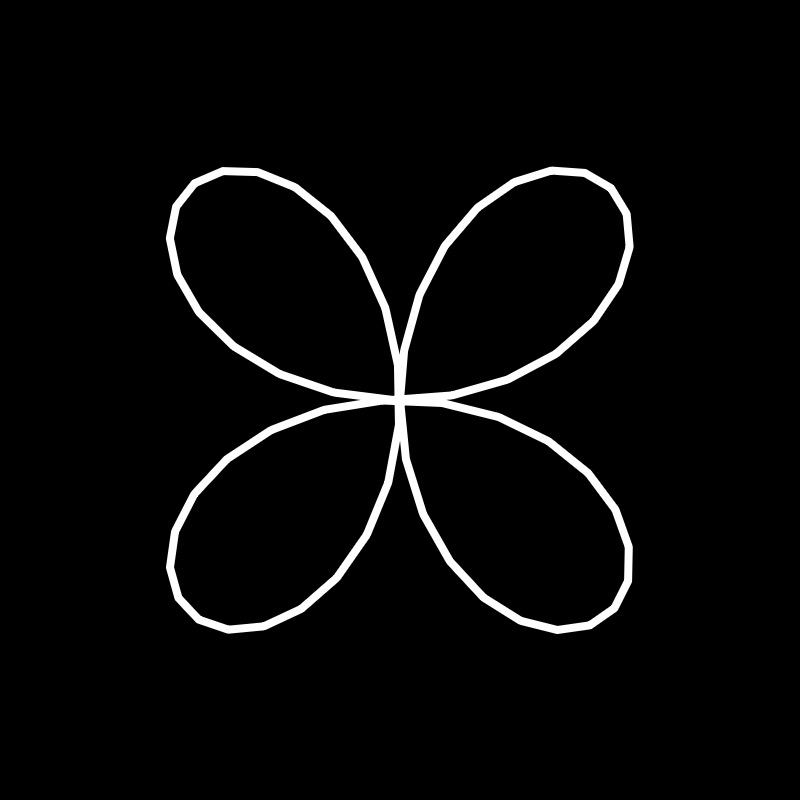
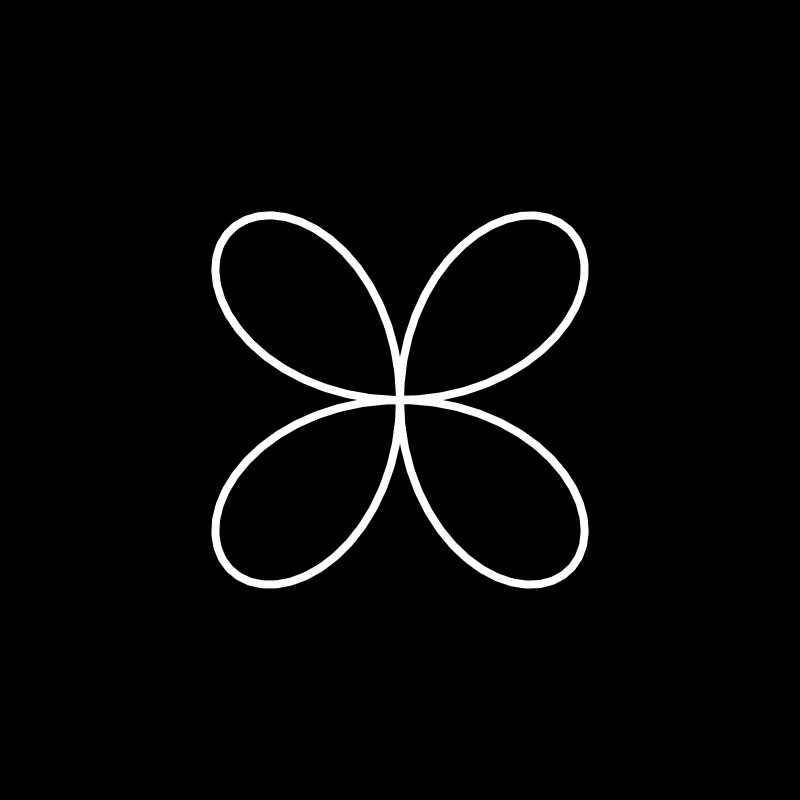
replace quadrifolium image

Changed region(s): [[0.1875, 0.1875, 0.8125, 0.8125], [0.5, 0.4688, 0.5312, 0.5312]]

diff --git a/palettes_json/shapes/quadrifolium.js b/palettes_json/shapes/quadrifolium.js
@@ -10,7 +10,7 @@ class Quadrifolium {
   }
 
   addPoints() {
-    for (let theta = 0; theta < TWO_PI; theta += 0.1) {
+    for (let theta = 0; theta < TWO_PI; theta += 0.05) {
       let x = this.r * (2 * this.a * pow(sin(theta), 2) * cos(theta));
       let y = this.r * (2 * this.a * pow(cos(theta), 2) * sin(theta));
       this.points.push(createVector(x, y));
